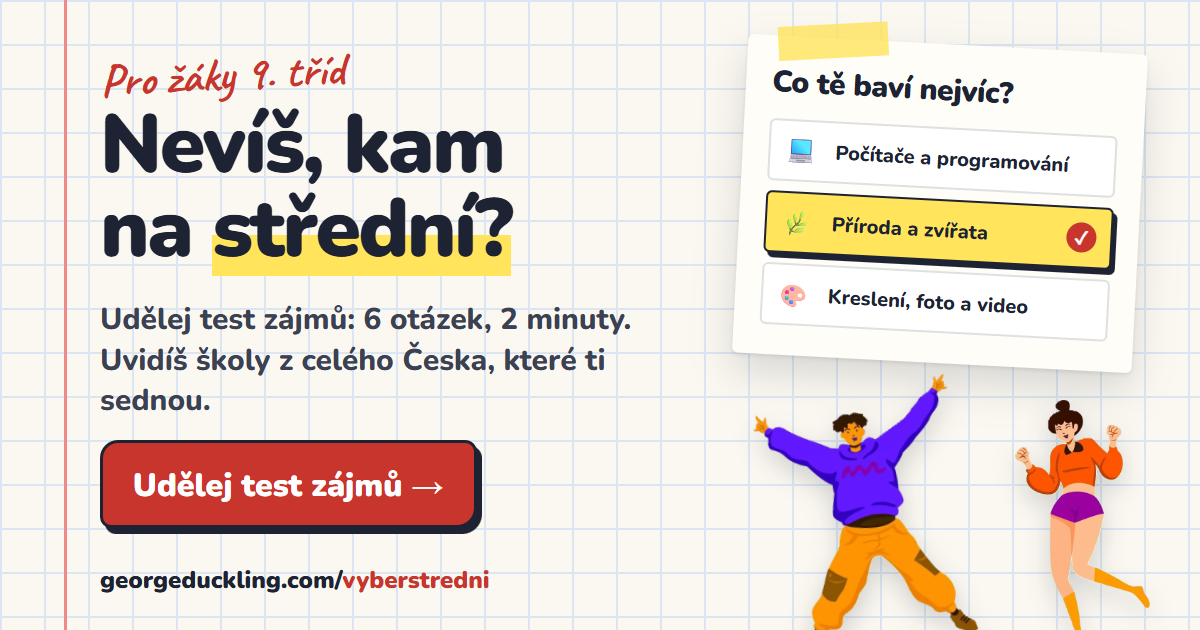
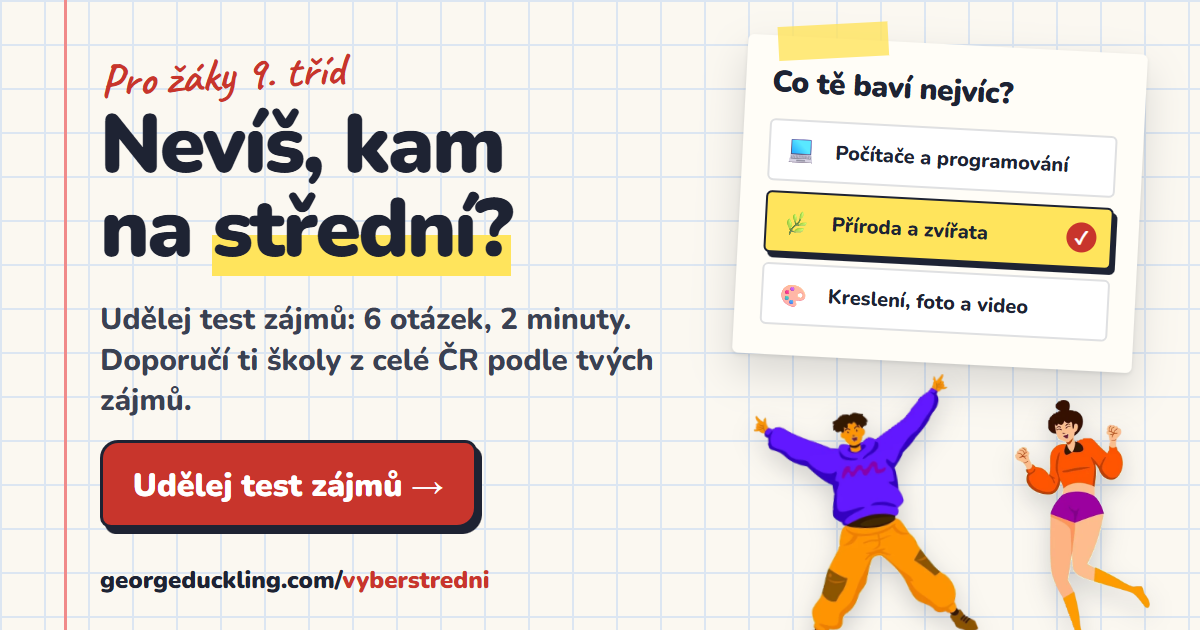
Rewrite playful marketing copy in plain Czech

Changed region(s): [[0.0617, 0.5429, 0.555, 0.6635]]

diff --git a/src/config/site.ts b/src/config/site.ts
@@ -1,7 +1,7 @@
 export const siteConfig = {
   name: "Vyber střední",
   description:
-    "Najdi střední školu, která ti sedí. Oficiální katalog středních škol a konzervatoří z celého Česka, včetně soukromých, církevních a speciálních škol.",
+    "Oficiální katalog středních škol a konzervatoří z celého Česka, včetně soukromých, církevních a speciálních škol.",
   url: "https://georgeduckling.com/vyberstredni/",
   lang: "cs",
   locale: "cs_CZ",
